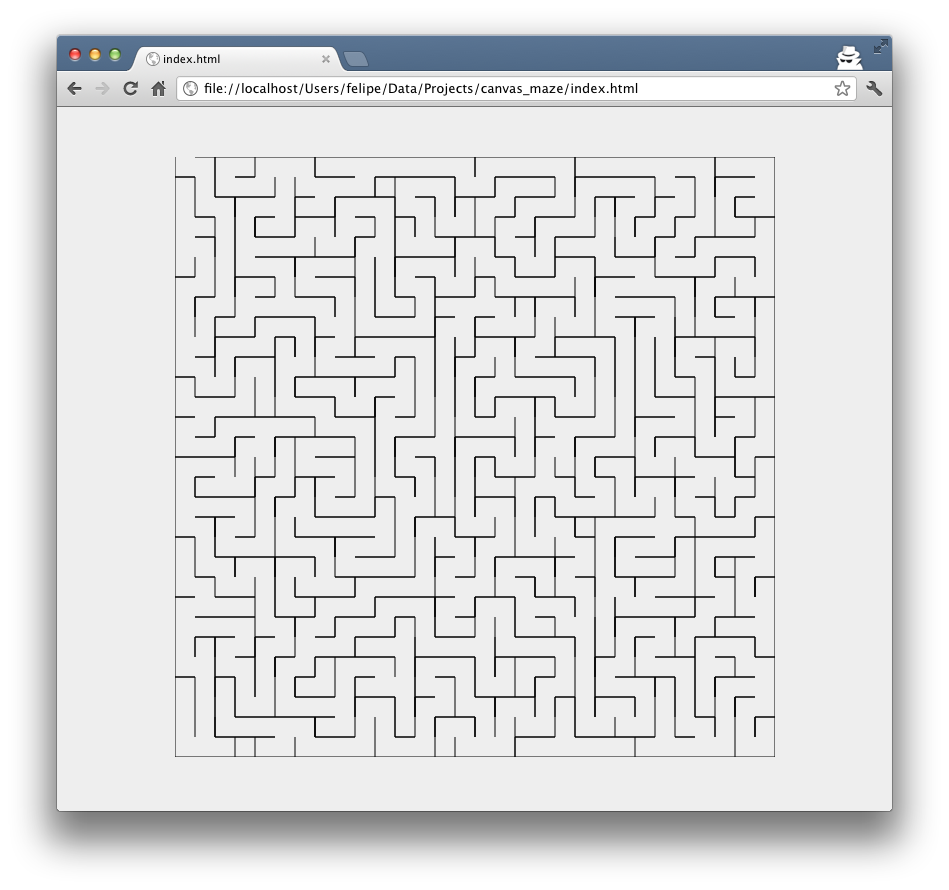
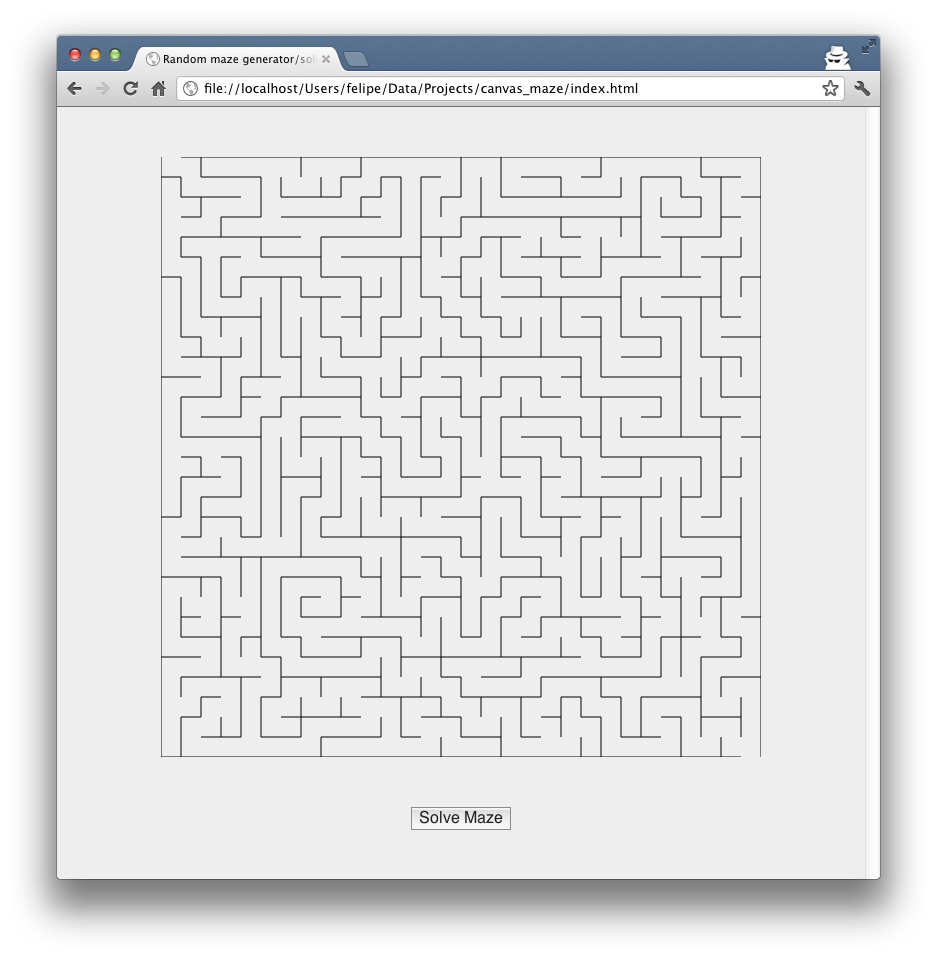
Added solved maze screenshot

Changed region(s): [[0.1547, 0.1517, 0.8356, 0.8798], [0.0619, 0.0303, 0.9594, 0.1213], [0.0619, 0.9101, 0.9285, 0.9404]]

diff --git a/src/maze.js b/src/maze.js
@@ -3,8 +3,8 @@ var Maze = function(doc, elemId) {
   this.width = this.canvas.width;
   this.height = this.canvas.height;
   this.ctx = this.canvas.getContext('2d');
-  this.horizCells = 20;
-  this.vertCells = 20;
+  this.horizCells = 30;
+  this.vertCells = 30;
   this.generator = new MazeGenerator(this.horizCells, this.vertCells);
   this.cellWidth = this.width / this.horizCells;
   this.cellHeight = this.height / this.vertCells;

diff --git a/Readme.md b/Readme.md
@@ -10,4 +10,6 @@ Please feel free to fork and make comments/suggestions! Thanks!
 
 ![maze](https://raw.github.com/felipecsl/random-maze-generator/master/maze.png)
 
+![solved maze](https://raw.github.com/felipecsl/random-maze-generator/master/solution.png)
+
 ![specs](https://raw.github.com/felipecsl/random-maze-generator/master/specs.png)
